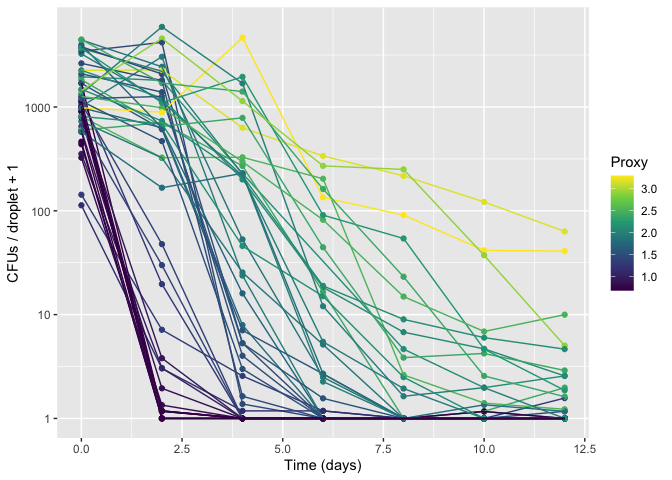
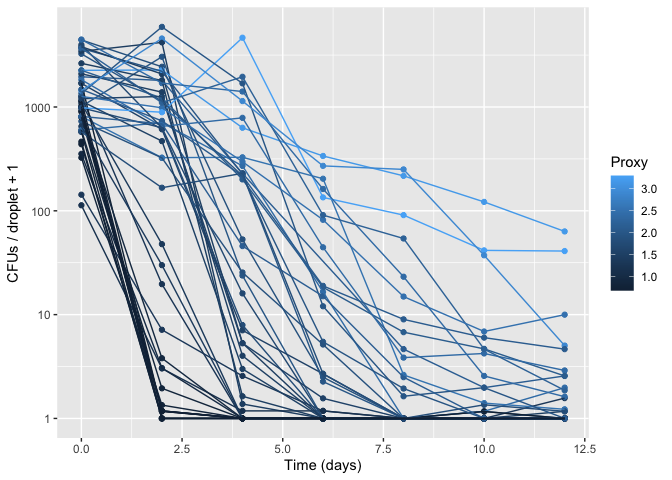
Fixed axes labels

diff --git a/README.md b/README.md
@@ -208,7 +208,7 @@ CFUsMLE$Proxy <- proxy$Proxy[match(CFUsMLE$Sample, proxy$Sample)]
 #Plot all lifespan curves and color by proxy
 g2 <- g2 <- ggplot(CFUsMLE, aes(Time, ColonyFormingUnitsPerDroplet + 1, group=Sample, color=Proxy))
 g2 <- g2 + geom_point() + geom_line()
-g2 <- g2 +  scale_y_log10() + xlab("Time (days)") + ylab("CFUs / droplet + 1") + scale_color_viridis_c()
+g2 <- g2 +  scale_y_log10() + xlab("Time (days)") + ylab("CFUs / droplet + 1")
 print(g2)
 ```
 
